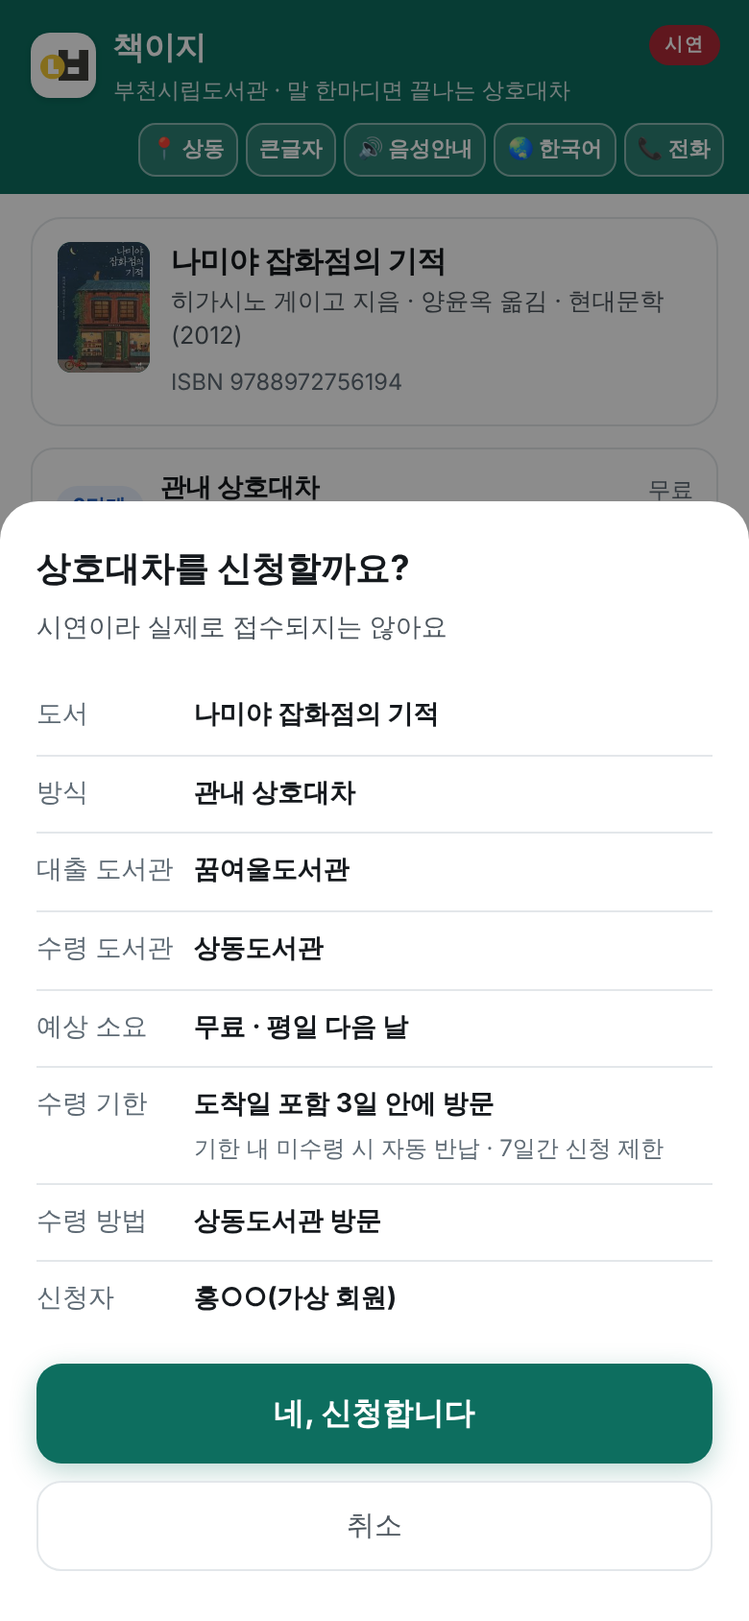
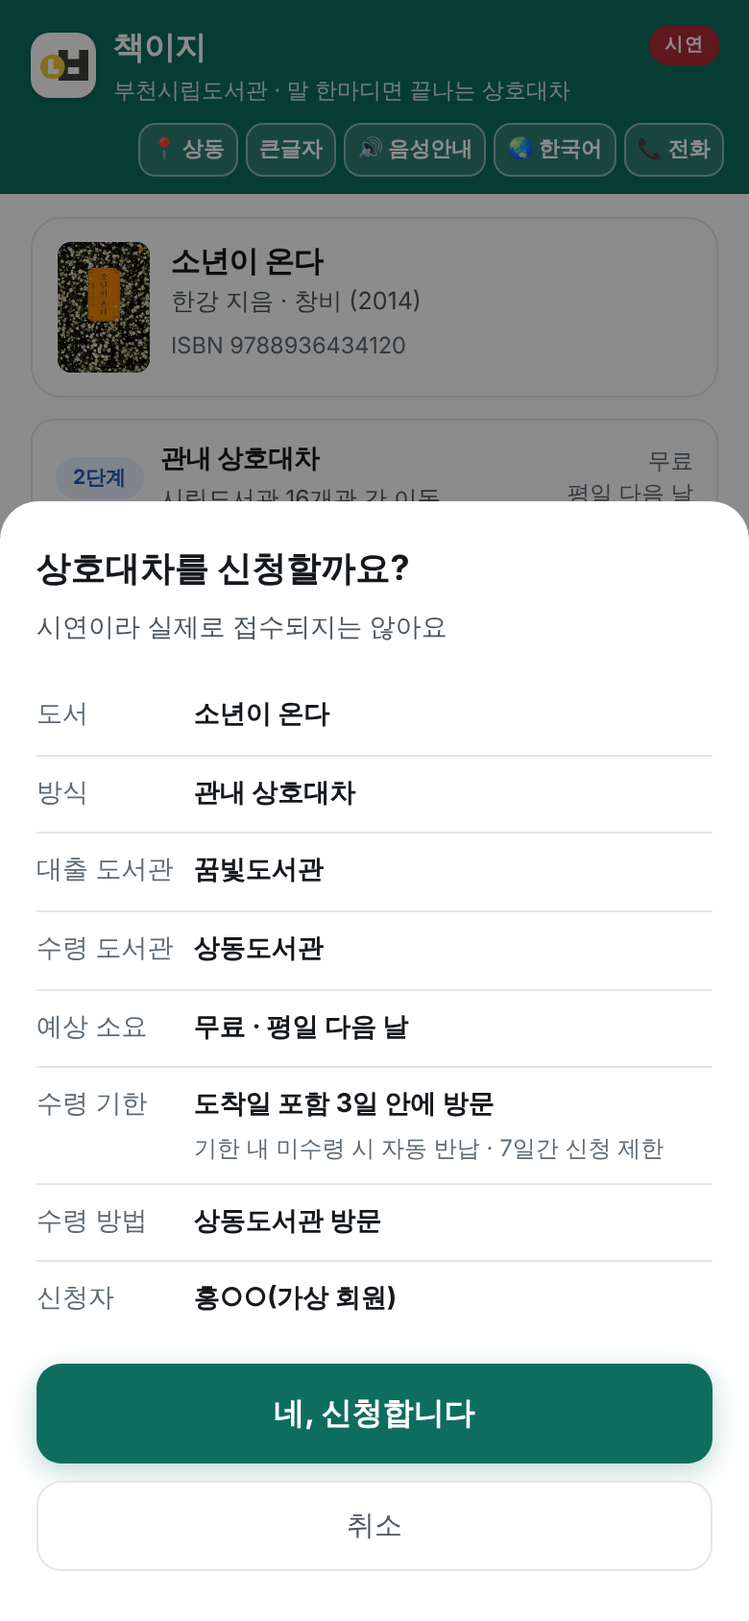
시연 웹 v1.12.22: 예시 단추 ①을 한강 소년이 온다로 · 목록 밖 책 안내에 홈페이지 찾기(담당자 10. 30. 15:03·15:05 요청, 15:29 승인)
- ① 「한강 소년이 온다 찾아주세요」: 기준일 10. 30. 자료로 상동 대출 중, 다른 10곳 대출 가능 → 관내 상호대차(단추 설명 그대로).
  ② 불편한 편의점, ③ 지구 끝의 온실 그대로. 10개 언어 단추 설명·전화 모드 단추도 같은 순서. 나미야는 단추에서만 빠짐.
- 목록 밖 책을 말하거나 입력하면 「예시 5권만」 안내 끝에 「홈페이지에서 「제목」 찾기 ›」(한국어 화면, 정보나루 호출 없음).
  그 줄이 붙은 안내에서만 마이크 100px.
- 동결일 점검(server/lab/refresh_examples.py)의 ① 확인 대상을 소년이 온다로.
- README 시민 화면 움짤(docs/img/result.gif)과 기능 상세 그림(home.png·confirm.png)을 새 판으로 다시 찍음.
- 점검: 10개 언어 × 6가지, 휴대폰 4가지 크기(한 화면·겹침 0), 저장소 시험 193건 통과. 캐시 chaekiji-v48.
  index.html sha256 97ee980d…, sw.js sha256 918266ee… (docs/변경내역_시연웹_v1.12.22.txt)

Claude-Session: https://claude.ai/code/session_018VyjTyFq5SqmSe6bWixWdp

diff --git a/index.html b/index.html
@@ -2,7 +2,7 @@
 <html lang="ko">
 <head>
 <meta charset="utf-8">
-<!-- 책이지 시연 웹 v1.12.21 (2026. 10. 30.) · 캐시 chaekiji-v47 · 판이 바뀌면 이 줄도 고친다(운영 점검이 첫 판 표시를 읽음) -->
+<!-- 책이지 시연 웹 v1.12.22 (2026. 10. 30.) · 캐시 chaekiji-v48 · 판이 바뀌면 이 줄도 고친다(운영 점검이 첫 판 표시를 읽음) -->
 <noscript><style>.screen.on,.gate-in{animation:none!important}</style></noscript>
 <script>/* v1.12.11: 시작 안전장치 ① — 시작 중 오류를 모아 둔다(맨 끝 ②가 안내 띠에 씀). 오래된 브라우저에서도 돌게 옛 문법만 */
 window.__CJ_ERR=[];try{window.addEventListener("error",function(e){try{if(window.__CJ_ERR.length<3)window.__CJ_ERR.push(String((e&&e.message)||"오류")+((e&&e.lineno)?" (줄 "+e.lineno+")":""));}catch(x){}});}catch(x){}
@@ -194,6 +194,7 @@ html.noanim .scanrow{opacity:1}
   position:relative;
 }
 .mic:active{transform:scale(.94)}
+#s-idle.errOn:has(#micerr a) .micwrap{min-height:120px}#s-idle.errOn:has(#micerr a) .mic{width:100px;height:100px}   /* v1.12.22: 홈페이지 찾기 줄이 붙은 안내에서만 */
 /* 홈화면 설치 안내 */
 .inst{display:none;margin:0 0 8px;padding:9px 11px;border-radius:12px;
   background:var(--brand-l);border:1.4px solid #bfded6;font-size:11.5px;line-height:1.4;color:#14483e}
@@ -783,8 +784,8 @@ body.bigmode .foot button{font-size:12.5px}
       </div>
       <div class="chips">
         <div class="lbl" id="chiplbl">눌러서 바로 보기</div>
-        <button class="chip" data-case="1">
-          “<b>나미야 잡화점의 기적</b> 빌리고 싶어요”
+        <button class="chip" data-case="0">
+          “<b>한강 소년이 온다</b> 찾아주세요”
           <span class="m">① 상동은 대출 중 → 관내 상호대차<em class="lv">10. 30. 실제 자료</em></span>
         </button>
         <button class="chip" data-case="3">
@@ -1094,6 +1095,11 @@ const RELAY = "https://chaekiji-relay.altarry2.workers.dev";
    탭이 강제 종료될 수 있음(Electron이 같은 문제를 고친 기록).
    담당자 15:43 「원인마다 해결 방법」: 광고 차단이 단순 배치로도 화면 틀을 숨기면 틀의 이름을 바꿔 피함(.cjx), 10초 안에 다 받지 못하면
    연결 알림(다시 불러오기 · 휴대폰 데이터 · 그림으로 둘러보기, 다 받으면 지움). 판정·자료 흐름은 그대로 */
+/* v1.12.22(2026. 10. 30., 캐시 v48): 담당자 15:03 「1번은 한강 소년이 온다여야지」·15:05 「예시 5권만 찾을 수 있다고 하는데」, 15:29 승인.
+   ① 예시 단추 ①을 나미야 잡화점의 기적에서 한강 소년이 온다로(기준일 10. 30. 자료로 상동 대출 중 · 다른 10곳 대출 가능 → 관내 상호대차, 단추 설명 그대로).
+   10개 언어 단추 설명·전화 모드 단추도 같은 순서(소년이 온다 · 불편한 편의점 · 지구 끝의 온실). 나미야는 단추에서만 빠지고 말하거나 입력하면 그대로 찾는다.
+   ② 목록 밖 책을 말하거나 입력했을 때 「예시 5권만」 안내 끝에 「홈페이지에서 「제목」 찾기 ›」(한국어 화면, 부천시립도서관 홈페이지 자료 검색). 정보나루 호출은 늘지 않는다.
+   그 줄이 붙은 안내에서만 마이크를 100px로(휴대폰 4가지 크기에서 한 화면 안, 둘레 겹침 없음). 판정·자료 흐름은 그대로 */
 /* v1.12.21(2026. 10. 30., 캐시 v47): 담당자 11:42. 처음 안내의 「시작하기」·「음성 없이 시작」을 누르면 아래 음성 시작 화면(「눌러서 시작하기 · 음성 없이 시작」)이
    0.3초 서서히 사라지는 사이에 잠깐 비쳤다. 처음 안내를 걷기 전에 아래 화면을 그 자리에서 없애 한 장면도 비치지 않게 함. 화면을 눌러 음성 시작 화면을 직접 닫을 때의
    서서히 사라짐은 그대로. 판정·자료 흐름·문구는 그대로 */
@@ -1394,61 +1400,61 @@ function exLv(code){ const m = /(\d{4})\D+(\d{1,2})\D+(\d{1,2})/.exec(기준일)
 const EXTAG = {ko:'예시', en:'sample', zh:'示例', ja:'例', vi:'mẫu', th:'ตัวอย่าง', ru:'пример', mn:'жишээ', uz:'namuna', id:'contoh'};
 const CHIPS_L = {
   ko:{c:[
-    ['“<b>한강 소년이 온다</b> 찾아주세요”','② 상동도서관에 있음 → 바로 이용',true],
+    ['“<b>한강 소년이 온다</b> 찾아주세요”','① 상동은 대출 중 → 관내 상호대차',true],
     ['“<b>나미야 잡화점의 기적</b> 빌리고 싶어요”','① 상동은 대출 중 → 관내 상호대차',true],
     ['“<b>지구 끝의 온실</b> 찾아주세요”','③ 관내에 없음 → 책바다(전국)',null],
     ['“<b>불편한 편의점</b> 있나요”','② 상동도서관에 있음 → 바로 이용',true]],
     note:'직접 말하거나 입력하면(예: 한강 소년이 온다) 그날 새벽 받은 정보나루 자료로 판정해요. 대출 상태는 조회한 날의 전날 기준이에요(③ 지구 끝의 온실은 직접 찾아도 예시 장면)'},
   en:{c:[
-    ['“Find <b>Human Acts</b> by Han Kang”','② At Sangdong Library → use right away',true],
+    ['“Find <b>Human Acts</b> by Han Kang”','① Checked out at Sangdong → loan within Bucheon',true],
     ['“I\'d like to borrow <b>The Miracles of the Namiya General Store</b>”','① Checked out at Sangdong → loan within Bucheon',true],
     ['“Find <b>The Greenhouse at the End of the Earth</b>”','③ Not in Bucheon → nationwide (Chaekbada)',null],
     ['“Do you have <b>The Second Chance Convenience Store</b>?”','② At Sangdong Library → use right away',true]],
     note:'Speak or type a title (e.g., Human Acts) to check with the Data4Library data fetched early that morning. Loan status is as of the previous day (③ The Greenhouse at the End of the Earth stays a sample scene even when you search for it)'},
   zh:{c:[
-    ['“帮我找韩江的<b>《少年来了》</b>”','② 上洞图书馆有藏 → 直接借阅',true],
+    ['“帮我找韩江的<b>《少年来了》</b>”','① 上洞馆已借出 → 市内馆际互借',true],
     ['“我想借<b>《解忧杂货店》</b>”','① 上洞馆已借出 → 市内馆际互借',true],
     ['“帮我找<b>《地球尽头的温室》</b>”','③ 富川市内没有 → 全国服务',null],
     ['“有<b>《不便利的便利店》</b>吗？”','② 上洞图书馆有藏 → 直接借阅',true]],
     note:'直接说出或输入书名（例如《少年来了》），将按当天清晨获取的图书馆数据判定。借阅状态为查询日前一天的情况（③《地球尽头的温室》直接搜索也只显示示例场景）'},
   ja:{c:[
-    ['「ハン・ガンの<b>『少年が来る』</b>を探して」','② 上洞図書館に所蔵 → すぐ利用',true],
+    ['「ハン・ガンの<b>『少年が来る』</b>を探して」','① 上洞館は貸出中 → 市内の相互貸借',true],
     ['「<b>『ナミヤ雑貨店の奇蹟』</b>を借りたい」','① 上洞館は貸出中 → 市内の相互貸借',true],
     ['「<b>『地球の果ての温室』</b>を探して」','③ 富川市内に無し → 全国サービス',null],
     ['「<b>『不便なコンビニ』</b>はありますか」','② 上洞図書館に所蔵 → すぐ利用',true]],
     note:'話すか入力すると（例：『少年が来る』）、その日の早朝に受け取った図書館データで判定します。貸出状況は照会日の前日時点です（③『地球の果ての温室』は直接探しても例の場面です）'},
   vi:{c:[
-    ['“Tìm giúp tôi <b>Bản chất của người</b> của Han Kang”','② Có tại TV Sangdong → dùng ngay',true],
+    ['“Tìm giúp tôi <b>Bản chất của người</b> của Han Kang”','① Sangdong đã cho mượn → mượn trong Bucheon',true],
     ['“Tôi muốn mượn <b>Điều kỳ diệu của tiệm tạp hóa Namiya</b>”','① Sangdong đã cho mượn → mượn trong Bucheon',true],
     ['“Tìm giúp tôi <b>Nhà kính ở tận cùng Trái Đất</b>”','③ Không có ở Bucheon → toàn quốc',null],
     ['“Có sách <b>Cửa hàng tiện lợi bất tiện</b> không?”','② Có tại TV Sangdong → dùng ngay',true]],
     note:'Nói hoặc nhập tên sách (VD: Bản chất của người) để kiểm tra theo dữ liệu Data4Library nhận sáng sớm hôm đó. Tình trạng mượn tính đến ngày hôm trước (③ Nhà kính ở tận cùng Trái Đất vẫn là cảnh minh họa dù bạn tự tìm)'},
   th:{c:[
-    ['“ช่วยหา <b>Human Acts</b> ของฮันคัง”','② มีที่ห้องสมุดซังดง → ใช้ได้เลย',true],
+    ['“ช่วยหา <b>Human Acts</b> ของฮันคัง”','① ซังดงถูกยืมอยู่ → ยืมข้ามสาขาในบูชอน',true],
     ['“อยากยืม <b>ปาฏิหาริย์ร้านชำของคุณนามิยะ</b>”','① ซังดงถูกยืมอยู่ → ยืมข้ามสาขาในบูชอน',true],
     ['“ช่วยหา <b>เรือนกระจกที่สุดขอบโลก</b>”','③ ไม่มีในบูชอน → ทั่วประเทศ',null],
     ['“มีหนังสือ <b>ร้านสะดวกซื้อไม่สะดวก</b> ไหม”','② มีที่ห้องสมุดซังดง → ใช้ได้เลย',true]],
     note:'พูดหรือพิมพ์ชื่อหนังสือ (เช่น Human Acts) เพื่อตรวจด้วยข้อมูลที่รับมาเช้ามืดวันนั้น สถานะการยืมเป็นของวันก่อนหน้า (③ เรือนกระจกที่สุดขอบโลก แม้ค้นเองก็ยังเป็นฉากตัวอย่าง)'},
   ru:{c:[
-    ['«Найди <b>Человеческие поступки</b> Хан Ган»','② Есть в библиотеке Сандон → сразу читать',true],
+    ['«Найди <b>Человеческие поступки</b> Хан Ган»','① В Сандоне выдана → обмен внутри Пучхона',true],
     ['«Хочу взять <b>«Чудеса лавки Намия»</b>»','① В Сандоне выдана → обмен внутри Пучхона',true],
     ['«Найди <b>Теплицу на краю Земли</b>»','③ Нет в Пучхоне → по всей стране',null],
     ['«Есть <b>«Магазин шаговой недоступности»</b>?»','② Есть в библиотеке Сандон → сразу читать',true]],
     note:'Скажите или введите название (напр., «Человеческие поступки»), проверим по данным, полученным рано утром в тот день. Статус выдачи на предыдущий день (③ «Теплица на краю Земли» и при поиске показывается как пример)'},
   mn:{c:[
-    ['“Хан Ганы <b>Хөвгүүн ирлээ</b>-г олж өгөөч”','② Сандон номын санд байгаа → шууд ашиглах',true],
+    ['“Хан Ганы <b>Хөвгүүн ирлээ</b>-г олж өгөөч”','① Сандонд зээлэгдсэн → Бүчон доторх солилцоо',true],
     ['“<b>Намия дэлгүүрийн гайхамшиг</b>-ийг зээлмээр байна”','① Сандонд зээлэгдсэн → Бүчон доторх солилцоо',true],
     ['“<b>Дэлхийн захын хүлэмж</b>-ийг олж өгөөч”','③ Бүчонд байхгүй → улс даяар',null],
     ['“<b>Тухгүй минимаркет</b> ном байгаа юу?”','② Сандон номын санд байгаа → шууд ашиглах',true]],
     note:'Номын нэрийг хэлж эсвэл бичвэл (жишээ нь Хөвгүүн ирлээ) тэр өдрийн өглөө эрт авсан өгөгдлөөр шалгана. Зээлийн төлөв нь өмнөх өдрийнх (③ Дэлхийн захын хүлэмж-ийг өөрөө хайсан ч жишээ үзэгдэл хэвээр)'},
   uz:{c:[
-    ['“Han Kangning <b>Human Acts</b> kitobini toping”','② Sangdon kutubxonasida bor → darhol foydalaning',true],
+    ['“Han Kangning <b>Human Acts</b> kitobini toping”','① Sangdonda band → Bucheon ichida almashish',true],
     ['“<b>Namiya do\'koni mo\'jizalari</b>ni olmoqchiman”','① Sangdonda band → Bucheon ichida almashish',true],
     ['“<b>Yer chekkasidagi issiqxona</b>ni toping”','③ Bucheonda yo\'q → butun mamlakat',null],
     ['“<b>Noqulay minimarket</b> kitobi bormi?”','② Sangdon kutubxonasida bor → darhol foydalaning',true]],
     note:'Kitob nomini ayting yoki yozing (masalan, Human Acts), o\'sha kuni erta tongda olingan ma\'lumot bilan tekshiramiz. Ijara holati oldingi kun bo\'yicha (③ Yer chekkasidagi issiqxona o\'zingiz qidirsangiz ham namuna sahna bo\'lib qoladi)'},
   id:{c:[
-    ['“Carikan <b>Mata Malam</b> karya Han Kang”','② Ada di Perpustakaan Sangdong → langsung pakai',true],
+    ['“Carikan <b>Mata Malam</b> karya Han Kang”','① Dipinjam di Sangdong → pinjam antar-cabang Bucheon',true],
     ['“Saya mau pinjam <b>Keajaiban Toko Kelontong Namiya</b>”','① Dipinjam di Sangdong → pinjam antar-cabang Bucheon',true],
     ['“Carikan <b>Rumah Kaca di Ujung Bumi</b>”','③ Tidak ada di Bucheon → seluruh negeri',null],
     ['“Ada buku <b>Minimarket yang Tak Nyaman</b>?”','② Ada di Perpustakaan Sangdong → langsung pakai',true]],
@@ -2450,7 +2456,10 @@ function run(text, live){
       const P0 = (typeof PHONE !== 'undefined' && PHONE[code0]) ? PHONE[code0] : null;
       const msg = P0 ? P0.unk2 : '시연 화면은 예시 5권만 찾을 수 있어요. 소년이 온다, 나미야 잡화점의 기적, 불편한 편의점, 설민석의 한국사 대모험 가운데 하나를 말씀해 주세요. 지구 끝의 온실은 예시 장면으로만 볼 수 있어요.';
       const esc = x => String(x).replace(/[&<>"]/g, ch => ({'&':'&amp;','<':'&lt;','>':'&gt;','"':'&quot;'}[ch]));
-      show('s-idle'); micNote(`“${esc(text)}”: ${esc(msg)}`, true); if(TTS_ON) say(msg);
+      /* v1.12.22: 막다른 안내 대신 찾아볼 곳 — 한국어 화면에서 부천시립도서관 홈페이지 자료 검색을 그 제목으로 연다(정보나루 호출 없음) */
+      const q0 = String(text||'').replace(/[?？.!,。]/g,' ').replace(/\s*(빌리고 ?싶(어요|은데요|습니다)|빌릴 ?수 ?있(어요|나요|을까요)|찾아 ?(주세요|줘)|있(나요|어요|을까요|습니까)|대출 ?(되나요|할 ?수 ?있나요)|읽고 ?싶어요|보고 ?싶어요)\s*$/,'').trim();
+      const link = (code0 === 'ko' && q0.length >= 2) ? ` <a href="${OFFICIAL_SEARCH_TITLE.replace('{title}', encodeURIComponent(q0))}" target="_blank" rel="noopener" style="white-space:nowrap;color:#0f5c4c;text-underline-offset:3px">홈페이지에서 「${esc(q0)}」 찾기 ›</a>` : '';
+      show('s-idle'); micNote(`“${esc(text)}”: ${esc(msg)}` + link, true); if(TTS_ON) say(msg);
       return;
     }
     cur = hit;
@@ -3839,7 +3848,7 @@ function phStart(){
   PH.on=true; PH.tries=0; PH.c=null; PH.kind=null; PH.tier=1;
   phLabels(); $('pcState').textContent=p.connecting; $('pcHang').classList.remove('re'); $('pcIn').value='';
   const CL=CHIPS_L[code]||CHIPS_L.ko; $('pcChips').innerHTML='';
-  [1,3,2].forEach(i=>{ const b=document.createElement('button'); const q=(CL.c[i]||CL.c[0])[0].replace(/<[^>]+>/g,'').replace(/[“”"]/g,'');
+  [0,3,2].forEach(i=>{ const b=document.createElement('button'); const q=(CL.c[i]||CL.c[0])[0].replace(/<[^>]+>/g,'').replace(/[“”"]/g,'');
     b.textContent=q; b.onclick=()=>phHandle('book', q, undefined, true); $('pcChips').appendChild(b); });
   PH.t0=Date.now(); clearInterval(PH.timer); $('pcTimer').textContent='00:00';
   PH.timer=setInterval(()=>{ const s=Math.floor((Date.now()-PH.t0)/1000); $('pcTimer').textContent=String(Math.floor(s/60)).padStart(2,'0')+':'+String(s%60).padStart(2,'0'); },1000);

diff --git a/sw.js b/sw.js
@@ -1,5 +1,5 @@
 /* 책이지 서비스워커 — 화면은 항상 최신, 인터넷이 끊겨도 열림 */
-const CACHE = 'chaekiji-v47';
+const CACHE = 'chaekiji-v48';
 const SHELL = ['./index.html', './manifest.webmanifest', './icon-192.png', './icon-512.png',
   './covers/9788936434120.jpg', './covers/9788972756194.jpg', './covers/9791161571188.jpg', './covers/9791191824001.jpg'];   // v1.12.20 시연 도서 표지
 

diff --git a/server/lab/refresh_examples.py b/server/lab/refresh_examples.py
@@ -6,7 +6,8 @@
 
 - 바꾸는 곳(index.html): CASES의 실제 책 4권(소년이 온다·나미야·불편한 편의점·설민석)의 bx, const 기준일,
   첫 화면 단추 ①② 배지와 바닥글·ⓘ 날짜(스크립트가 돌기 전에 보이는 글).
-- 갈래 확인: ① 나미야는 상동 대출 중이고 다른 관에 대출 가능(관내 상호대차), ② 불편한 편의점은 상동 대출 가능(바로 이용).
+- 갈래 확인: ① 한강 소년이 온다는 상동 대출 중이고 다른 관에 대출 가능(관내 상호대차), ② 불편한 편의점은 상동 대출 가능(바로 이용).
+  (v1.12.22, 10. 30.: ①을 나미야 잡화점의 기적에서 소년이 온다로 바꿈. 담당자 15:03 요청·15:29 승인)
   둘 중 하나라도 안 맞으면 끝 코드 3(파일은 이미 바뀌었으니 git checkout으로 되돌리고 다른 날 자료를 고른다).
 - 동결일(2026. 11. 5.)에 그날 새벽 자료로 한 번 돌리고, 판 표시(index.html 머리 줄)·서비스워커 캐시 이름을 올린 뒤
   README 움짤(tools/video 가지의 cmp/shoot_app.py·make_gif.py)도 같은 날 자료로 다시 찍는다. 인증키·정보나루 호출 없음."""
@@ -40,12 +41,12 @@ open(p, 'w', encoding='utf-8').write(s)
 
 # 갈래 확인
 H = d['holdings']
-nam, conv = H['9788972756194'], H['9791161571188']
-c1 = nam.get('상동') == 'busy' and any(v == 'ok' for k, v in nam.items() if k != '상동')
+son, conv = H['9788936434120'], H['9791161571188']
+c1 = son.get('상동') == 'busy' and any(v == 'ok' for k, v in son.items() if k != '상동')
 c2 = conv.get('상동') == 'ok'
-okn = sum(1 for k, v in nam.items() if k != '상동' and v == 'ok')
-print(f'기준일 {KDAY} · ① 나미야: 상동 {nam.get("상동")}, 다른 관 대출 가능 {okn}곳 → {"관내 상호대차 ✓" if c1 else "✗ 갈래 안 맞음"}')
+okn = sum(1 for k, v in son.items() if k != '상동' and v == 'ok')
+print(f'기준일 {KDAY} · ① 소년이 온다: 상동 {son.get("상동")}, 다른 관 대출 가능 {okn}곳 → {"관내 상호대차 ✓" if c1 else "✗ 갈래 안 맞음"}')
 print(f'           ② 불편한 편의점: 상동 {conv.get("상동")} → {"바로 이용 ✓" if c2 else "✗ 갈래 안 맞음"}')
-for isbn in ('9788936434120', '9791195794799'):
+for isbn in ('9788972756194', '9791195794799'):
     print(f'           (단추 아님) {BOOKS[isbn]}: 상동 {H[isbn].get("상동")}')
 sys.exit(0 if (c1 and c2) else 3)

diff --git a/docs/시연웹-기능-상세.md b/docs/시연웹-기능-상세.md
@@ -1,7 +1,7 @@
 # 시연 웹: 기능 상세와 판별 이력
 
 루트 README의 긴 버전입니다. 시연 웹(저장소 루트의 `index.html`)이 무엇을 구현했고 무엇이 시연인지, 판마다 무엇이 바뀌었는지 전부 적어 둡니다.
-현재 판 **v1.12.21**(2026. 10. 30., 캐시 v47). 다섯 단계 흐름과 바로 열기 주소는 [루트 README](../README.md)에 있습니다. v1.10부터의 판별 상세는 `docs/변경내역_시연웹_v1.10.txt`~`v1.12.21.txt`와 [루트 CHANGELOG](../CHANGELOG.md)에 있습니다.
+현재 판 **v1.12.22**(2026. 10. 30., 캐시 v48). 다섯 단계 흐름과 바로 열기 주소는 [루트 README](../README.md)에 있습니다. v1.10부터의 판별 상세는 `docs/변경내역_시연웹_v1.10.txt`~`v1.12.22.txt`와 [루트 CHANGELOG](../CHANGELOG.md)에 있습니다.
 
 ## 무엇을 하나: 다섯 단계
 
@@ -12,7 +12,7 @@
 5. **신청 안내**: 수령 도서관·예상 소요가 채워진 신청 요약을 확인 한 번으로 접수하는 흐름을 시연한다.
 
 <p align="center"><img src="img/start.png" width="31%" alt="처음 열 때 한 번 보이는 처음 안내"> <img src="img/home.png" width="31%" alt="첫 화면"> <img src="img/confirm.png" width="31%" alt="신청 확인 시트"></p>
-<p align="center"><sub>그림은 2026. 10. 30. 다시 찍은 화면(v1.12.20: 처음 열 때 한 번 보이는 처음 안내, 예시 단추 ① 나미야 잡화점의 기적 ② 불편한 편의점, 배지 「10. 30. 실제 자료」, 신청자 「홍○○(가상 회원)」, 바닥글 「자료 10. 30. 조회」). 확인 시트의 소요·수령 기한은 누리집 규정(10. 18. 반영), 윗줄은 「시연이라 실제로 접수되지는 않아요」</sub></p>
+<p align="center"><sub>그림은 2026. 10. 30. 다시 찍은 화면(처음 안내는 v1.12.20, 첫 화면·확인 시트는 v1.12.22: 예시 단추 ① 한강 소년이 온다 ② 불편한 편의점, 배지 「10. 30. 실제 자료」, 신청자 「홍○○(가상 회원)」, 바닥글 「자료 10. 30. 조회」). 확인 시트의 소요·수령 기한은 누리집 규정(10. 18. 반영), 윗줄은 「시연이라 실제로 접수되지는 않아요」</sub></p>
 
 ## 구현 기능
 
@@ -68,7 +68,7 @@
     mcp.html / console.html      확산 모델 설계도·도구 호출 콘솔
     diag.html             점검 페이지(브라우저·연결·화면 확인, v1.12.10~)
     docs/변경내역_시연웹_v1.9r11.txt  v1.9 r11 변경 내역 원문
-    docs/변경내역_시연웹_v1.10.txt ~ v1.12.21.txt  v1.10 이후 판별 변경 내역 원문
+    docs/변경내역_시연웹_v1.10.txt ~ v1.12.22.txt  v1.10 이후 판별 변경 내역 원문
     covers/               시연 도서 표지 그림 4장(v1.12.20, 출판사 저작물이라 MIT 대상 아님)
     data/holdings-today.json  매일 갱신 조회분(깃허브 액션이 새벽에 커밋)
 
@@ -110,7 +110,8 @@
 | v1.12.18 | 2026. 10. 28. | **최종 점검 반영**(담당자 17시대 승인): ③ 예시 장면은 「이 책은 실제로는 부천 관내에 있습니다」(10개 언어), 근거 없는 「가장 빠름·가장 가까움」을 「추천」으로, 접수(시연) 화면 제목 「(시연)」·본문 「…신청한 장면입니다」, 머리 띠 「시연」, 「그 외 ○곳」 셈(①13곳·③3곳), ⓘ 안내 창 줄 이름·한도 3종·예시 ③ 구분·전일 기준, 휴대폰 낱말 단위 줄바꿈, 예시 단추 배지 「8. 18. 실측」, 바닥글 자료 날짜, 「오늘 바로」를 「바로 대출」로, 책바다 「장애인 무료」 뺌·시연 고지, 「홍○○(가상 회원)」, 조사·「단추」·「16개관」·「지도에서 위치 보기」. 판정·자료 흐름은 그대로(캐시 v44) |
 | v1.12.19 | 2026. 10. 28. | **2차 점검 반영**(19시대, 오늘 고침에서 생긴 문제와 같은 종류의 정직 표시): 전화 모드 바로 이용 답 끝을 「시연이라 실제로 문자는 보내지 않아요」로 되돌림, 패스키 미지원 완료 화면 「기기 등록 안 함」, ③ 음성·전화 「실제로는 관내에 있지만 여기서는 없다고 가정」, 외국어 ③ 음성은 책바다 안내·완료 음성은 「신청한 장면」 뜻·요약 줄 「보낼 수 있어요」, 예약 완료 화면 「…신청한 장면입니다」, AI 책큐 ③에 「(예시)」, 전화 안내 시트 「설계했습니다」, 몽골어 시연은 「демо」, 언어 창·안내 창 문장, 규정 상자 줄바꿈. 콘솔 ③ 근거 「(예시) 관내에 없다고 가정」, 「고시」 대신 「누리집 안내」. 판정·자료 흐름은 그대로(캐시 v45) |
 | v1.12.20 | 2026. 10. 30. | **직원 의견 · 예시 단추 실제 자료 · 표지 · 읽기 쉽게**(담당자 10:16·10:39·10:44·10:45 승인, 1차 검수의 독립 검토 반영): 처음 열 때 한 번 「처음 안내」, 관내 상호대차 완료 화면 맨 위 「받는 방법」, 시민 화면 「창구」를 「안내데스크」로, 예시 단추 ①②를 정보나루 실제 자료 한 날짜(10. 30. 새벽 자료)로·②는 불편한 편의점, 시연 도서 4권 실제 표지, 작은 글 12.5~13px·줄 간격 1.65~1.7, 안내 창 넷 role=dialog, 큰글자에서 신청 확인 시트 본문·단추도 키움, 도서관만 바꿀 때 「한국어로 바뀌었습니다」를 읽지 않음. 판정·자료 흐름은 그대로(캐시 v46) |
-| **v1.12.21** | 2026. 10. 30. | **처음 안내를 닫을 때 음성 시작 화면이 비치지 않게**(담당자 11:42): 「시작하기」·「음성 없이 시작」을 누르면 아래 음성 시작 화면을 그 자리에서 없앤 뒤 처음 안내를 걷는다(전에는 0.3초 서서히 사라지는 사이에 「눌러서 시작하기 · 음성 없이 시작」이 잠깐 비쳤음). 판정·자료 흐름·문구는 그대로(캐시 v47) |
+| v1.12.21 | 2026. 10. 30. | **처음 안내를 닫을 때 음성 시작 화면이 비치지 않게**(담당자 11:42): 「시작하기」·「음성 없이 시작」을 누르면 아래 음성 시작 화면을 그 자리에서 없앤 뒤 처음 안내를 걷는다(전에는 0.3초 서서히 사라지는 사이에 「눌러서 시작하기 · 음성 없이 시작」이 잠깐 비쳤음). 판정·자료 흐름·문구는 그대로(캐시 v47) |
+| **v1.12.22** | 2026. 10. 30. | **예시 단추 ①을 한강 소년이 온다로 · 목록 밖 책 안내에 홈페이지 찾기**(담당자 15:03·15:05 요청, 15:29 승인): ① 「한강 소년이 온다 찾아주세요」(기준일 10. 30. 자료로 상동 대출 중 · 다른 10곳 대출 가능 → 관내 상호대차, 단추 설명 그대로) ② 불편한 편의점 ③ 지구 끝의 온실. 10개 언어 단추 설명·전화 모드 단추도 같은 순서, 나미야 잡화점의 기적은 단추에서만 빠지고 말하거나 입력하면 그대로 찾음. 목록 밖 책을 말하거나 입력하면 「예시 5권만」 안내 끝에 「홈페이지에서 「제목」 찾기 ›」(한국어 화면, 부천시립도서관 홈페이지 자료 검색, 정보나루 호출 없음), 그 줄이 붙은 안내에서만 마이크를 100px로(휴대폰 4가지 크기에서 한 화면 안). 동결일 점검 스크립트(refresh_examples.py)의 ① 확인 대상도 소년이 온다로 · 캐시 v48 |
 
 <details>
 <summary>판별 상세 변경 내역 (펼치기)</summary>

diff --git a/README.md b/README.md
@@ -123,7 +123,7 @@
 - **시범 운영 제안: 시민 음성 화면.** 같은 판정을 시민이 음성, 10개 언어, 큰글자, 전화 모드로 쓰는 모습입니다. 지금 시연 화면은 책이지 서버와 같은 새벽 자료를 쓰고 규정 문구도 누리집 안내와 맞췄지만(10. 18.), 판정은 화면 안에 따로 넣은 규칙이 합니다. 책이지 서버의 도구에 직접 붙이는 것이 제안입니다. 신청 확인은 화면 안에서 끝나며 실제 접수로 이어지지 않습니다.
 
 <p align="center"><img src="docs/img/result.gif" width="320" alt="시민 음성 화면의 흐름을 보여 주는 움직이는 그림. 예시 단추 ①을 누르면 처리 단계, 판정 화면(상동도서관은 대출 중이고 대출 가능한 다른 도서관에서 상호대차로 받을 수 있다는 안내), 상호대차 신청 확인, 맨 위에 받는 방법을 모은 접수(시연) 화면이 차례로 나온다"></p>
-<p align="center"><sub>시민 음성 화면의 예시 단추 ① 「나미야 잡화점의 기적 빌리고 싶어요」: 정보나루 실제 자료 한 날짜(단추 배지에 표시)로 고정한 장면의 판정에서 접수(시연) 화면까지(실제 접수로 이어지지 않음. 직접 말하면 매일 새벽 자료로 찾고, 심사 기간에는 11. 5. 새벽 자료를 씁니다)</sub></p>
+<p align="center"><sub>시민 음성 화면의 예시 단추 ① 「한강 소년이 온다 찾아주세요」: 정보나루 실제 자료 한 날짜(단추 배지에 표시)로 고정한 장면의 판정에서 접수(시연) 화면까지(실제 접수로 이어지지 않음. 직접 말하면 매일 새벽 자료로 찾고, 심사 기간에는 11. 5. 새벽 자료를 씁니다)</sub></p>
 
 ## 3. 어디까지 진짜인가
 
@@ -317,7 +317,7 @@
 | 10.&nbsp;26. | 화면 v1.12.7·v1.12.8 · 정직 표시 문구(완료 음성의 시연 표시, 예약 「바꿔 신청할 수 있음」, 책바다 「실제로 문자는 보내지 않아요」, 「지금」 대신 조회일을 말하는 화면·음성 등 10개 언어) |
 | 10.&nbsp;27. | 화면 v1.12.9~v1.12.14 · 전화 모드 「없지만」 갈래·오늘 자료로 답하기 · 한국어 음성 겹침 정리 · 흰 화면 대비(애니메이션 멈춤 · 시작 안전장치 · 화면 틀 점검 · 간단 모드) · 동결을 10.&nbsp;30.로 앞당김 |
 | 10.&nbsp;28. | 화면 v1.12.15\~v1.12.19 · 예시 단추 순서(① 관내 상호대차 ② 바로 이용) · 자동 접근성 점검(axe-core, WCAG 2.2 AA 위반 0건, 본문·머리 영역 표시) · 이름을 「책이지」 하나로 · 최종 점검(③ 예시 장면 표시, 「추천」 꼬리표, 접수 화면 「(시연)」) |
-| 10.&nbsp;30. | 화면 v1.12.20~21 · 직원 의견(처음 안내, 받는 방법 칸, 시민 화면 「안내데스크」) · 예시 단추를 실제 자료 한 날짜로(②는 불편한 편의점) · 시연 도서 표지 · 읽기 쉽게 · 처음 안내를 닫을 때 음성 시작 화면이 비치지 않게 · 1차 검수(독립 검토 3건) · 동결을 11.&nbsp;5.로 옮김 |
+| 10.&nbsp;30. | 화면 v1.12.20~22 · 직원 의견(처음 안내, 받는 방법 칸, 시민 화면 「안내데스크」) · 예시 단추를 실제 자료 한 날짜로(①은 한강 소년이 온다, ②는 불편한 편의점) · 목록 밖 책 안내에 홈페이지 찾기 · 시연 도서 표지 · 읽기 쉽게 · 처음 안내를 닫을 때 음성 시작 화면이 비치지 않게 · 1차 검수(독립 검토 3건) · 동결을 11.&nbsp;5.로 옮김 |
 
 자세한 이력은 [CHANGELOG.md](CHANGELOG.md)에 있습니다.
 

diff --git a/CHANGELOG.md b/CHANGELOG.md
@@ -5,6 +5,7 @@
 
 | 날짜 | 구성 | 판 | 내용 |
 |---|---|---|---|
+| 2026. 10. 30. | 화면 | v1.12.22 | **예시 단추 ①을 한강 소년이 온다로 · 목록 밖 책 안내에 홈페이지 찾기**(담당자 15:03 「1번은 한강 소년이 온다여야지」·15:05 「예시 5권만 찾을 수 있다고 하는데」, 15:29 승인): ① 「한강 소년이 온다 찾아주세요」(기준일 10. 30. 자료로 상동 대출 중 · 다른 10곳 대출 가능 → 관내 상호대차, 단추 설명 그대로) ② 불편한 편의점 ③ 지구 끝의 온실. 10개 언어·전화 모드 같은 순서, 나미야 잡화점의 기적은 단추에서만 빠지고 말하거나 입력하면 그대로 찾음. 목록 밖 책을 말하거나 입력하면 「예시 5권만」 안내 끝에 「홈페이지에서 「제목」 찾기 ›」(한국어 화면, 정보나루 호출 없음). 동결일 점검(refresh_examples.py)의 ① 확인 대상도 소년이 온다로. README 시민 화면 움짤·기능 상세 그림 다시 찍음. 10개 언어 × 6가지 점검·휴대폰 4가지 크기·시험 193건 통과, 캐시 v48 · [변경 내역](docs/변경내역_시연웹_v1.12.22.txt) |
 | 2026. 10. 30. | 문서 | - | **README 첫 화면 줄바꿈 정리**(담당자 14:31 「공공도서관이 줄을 따로 떨어뜨려서 가독성이 떨어진다. 이런 게 있으면 다 수정」): 깃허브는 한글을 글자 사이 어디서나 줄을 넘겨 「공 / 공도서관」처럼 낱말이 갈라졌다. 맨 위 소개 · 예시 질문 풀이 · 그림 설명 · 정직 고지 · 한눈에 보기 네 문답 · 숫자로 보는 책이지 표 다섯 칸에 뜻이 끊기는 자리마다 줄바꿈(`<br>`) 34곳을 넣었다. 문구는 그대로(줄바꿈만 추가, 대조 확인). 화면 폭 830px·760px로 그려 보아 다시 접히는 줄 0개. 아래 본문(1~8절)은 그대로 |
 | 2026. 10. 30. | 문서 | - | **README 맨 위에 상호대차 뜻**(담당자 14:21 「메인에 상호대차 서비스 설명이 없어 간략하게라도 설명하고 예시문으로 시작」): 제목 바로 아래에 상호대차가 무엇인지 두 문장(가까운 도서관에 없거나 대출 중인 책을 다른 도서관에서 보내 받아 가까운 도서관에서 빌리고 반납하는 공공도서관 서비스, 2025년 한 해 320,140권)을 넣고, 맨 위 질문 끝에 「(예시)」 표시. 숫자는 README 1절·필요성 줄과 같은 값. 시연 웹·서버·원격 판은 그대로 |
 | 2026. 10. 30. | 화면 | v1.12.21 | **처음 안내를 닫을 때 음성 시작 화면이 비치지 않게**(담당자 11:42 「시작하기를 누르면 찰나지만 음성 없이 시작 이전 그림이 뜬다」): 처음 안내의 「시작하기」·「음성 없이 시작」을 누르면 그 아래 음성 시작 화면(「눌러서 시작하기 · 음성 없이 시작」)이 0.3초 서서히 사라지는 사이에 잠깐 비쳤다. 처음 안내를 걷기 전에 아래 화면을 그 자리에서 없애 한 장면도 비치지 않게 함(화면을 눌러 직접 닫을 때의 서서히 사라짐은 그대로). 판정·자료 흐름·문구는 그대로(캐시 v47). 점검: 비침 없음 16(처음 안내 닫기 4경우 × 60장면 표본에서 비친 장면 0) · 이번 판 224 · 회귀 119 · 표지 8 · 큰글자 시트 3 · axe-core 24화면 위반 0. [변경 내역](docs/변경내역_시연웹_v1.12.21.txt) |
